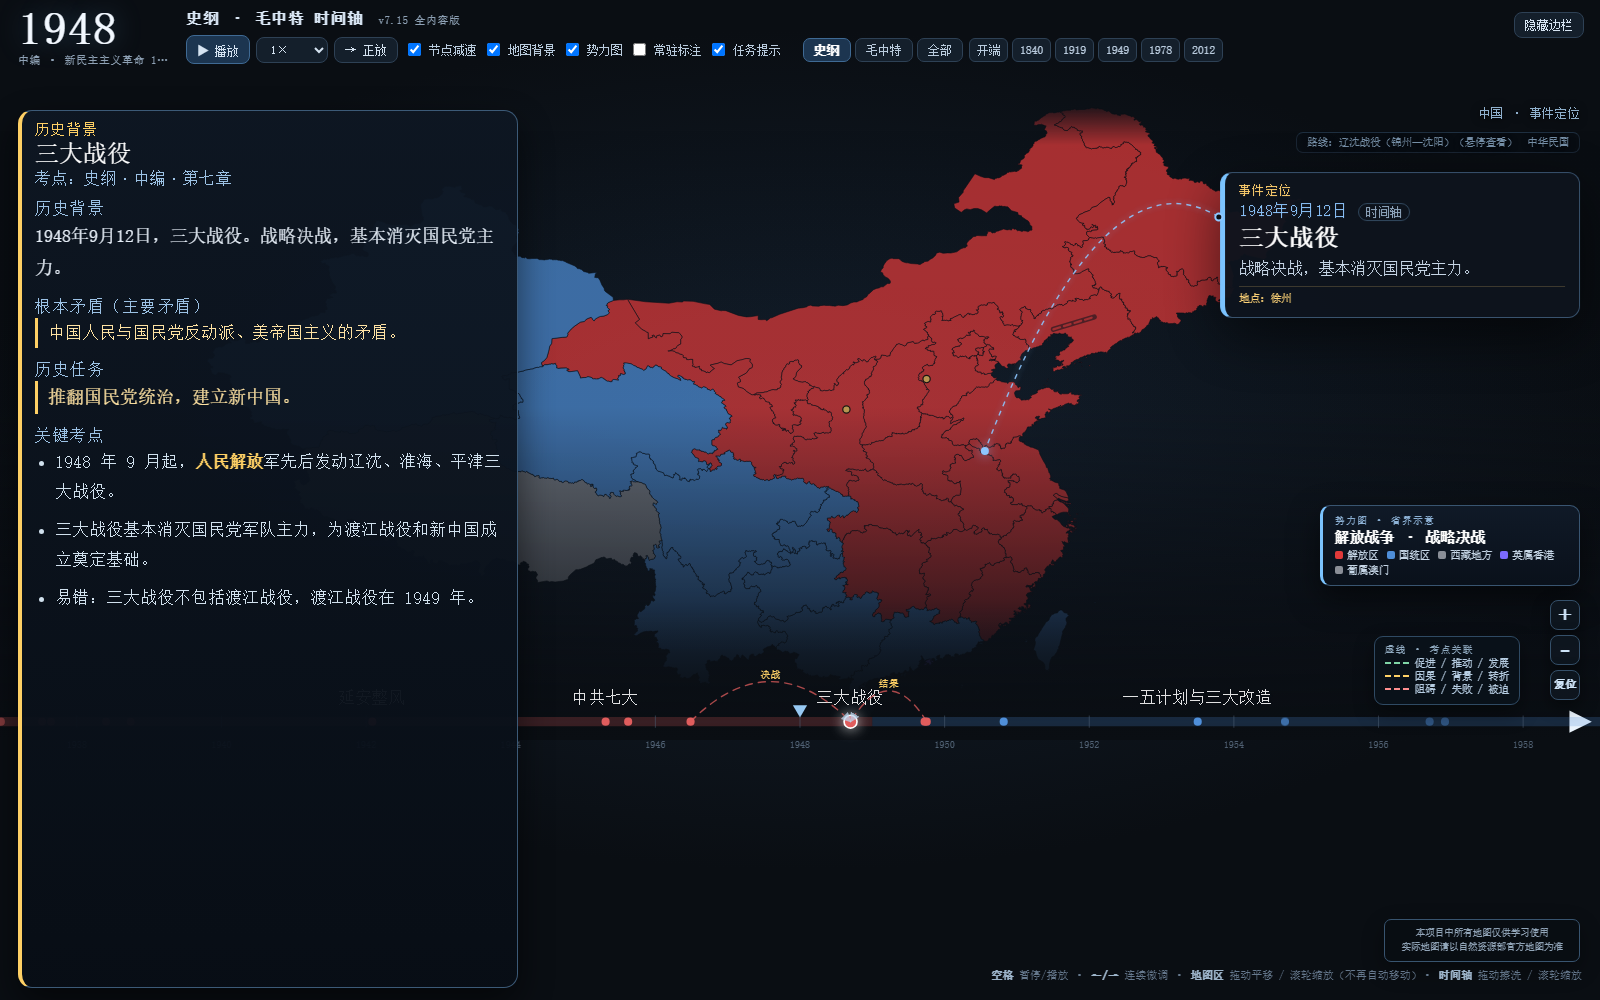
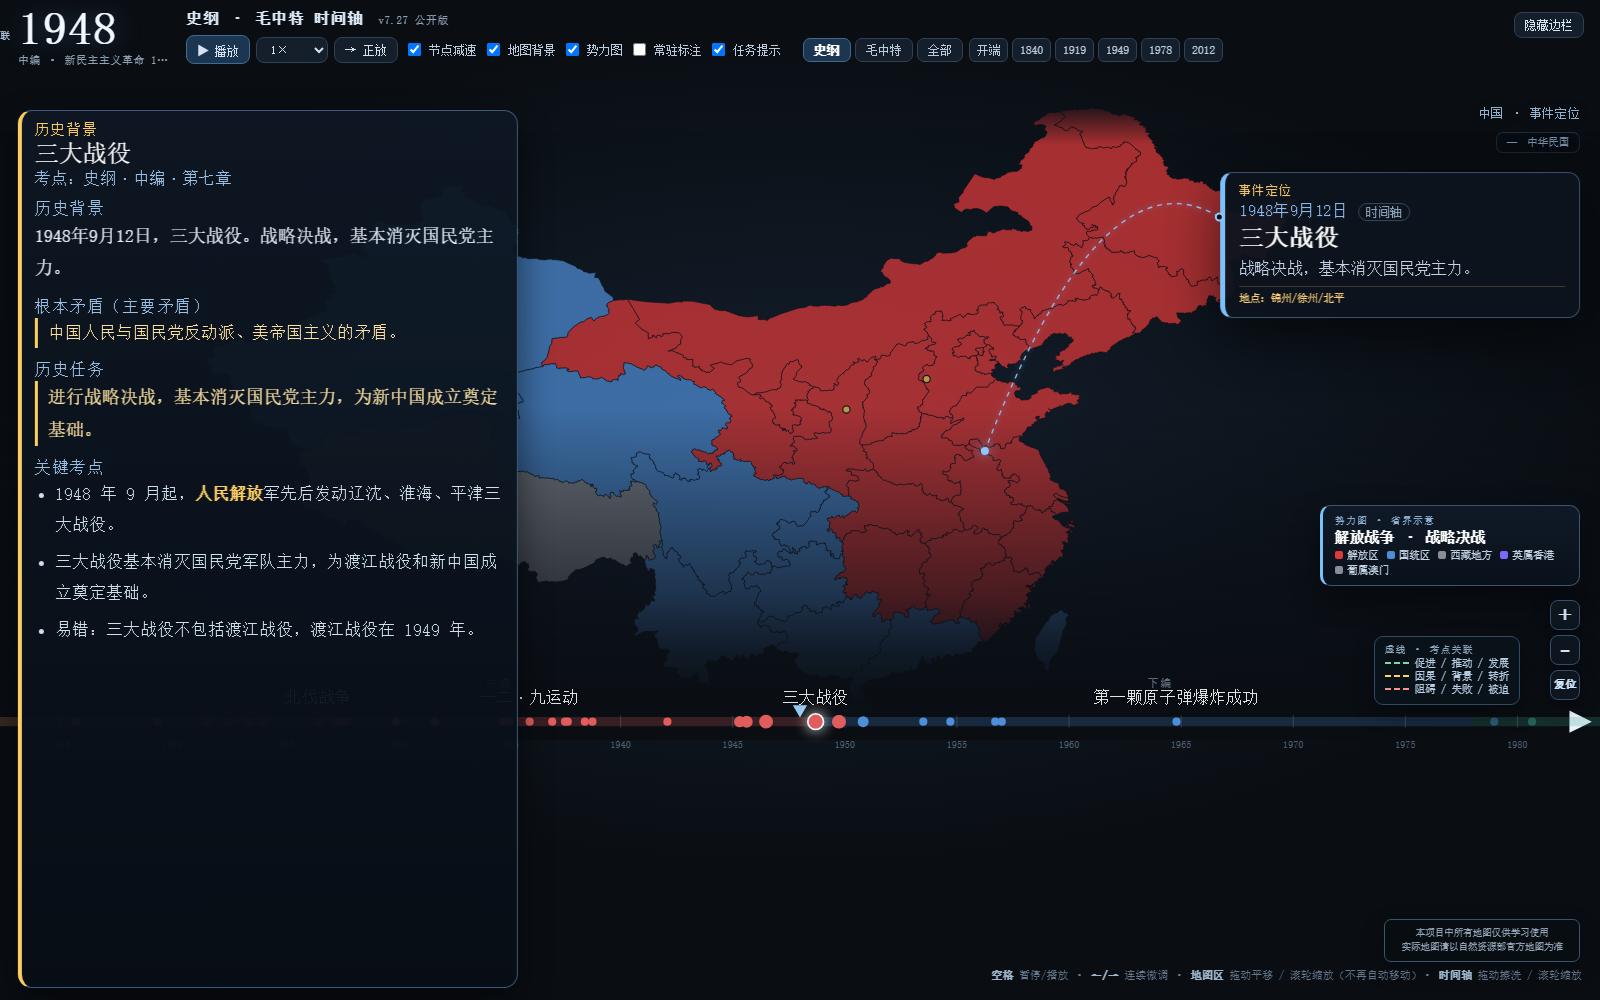
Prepare Bilibili public release v7.27

diff --git a/index.html b/index.html
@@ -3,7 +3,7 @@
 <head>
 <meta charset="utf-8">
 <meta name="viewport" content="width=device-width, initial-scale=1">
-<title>史纲 · 毛中特 时间轴（v7.15 全内容版）</title>
+<title>史纲 · 毛中特 时间轴（v7.27 公开版）</title>
 <style>
   :root{ --bg1:#0a0e13; --bg2:#101823; --text:#e9f0f8; --muted:#8fa2b6; --line:#22303f; --accent:#7cc4ff; }
   *{box-sizing:border-box}
@@ -495,7 +495,7 @@
 <svg id="svg" xmlns="http://www.w3.org/2000/svg"></svg>
 
 <div id="topLeft">
-  <div id="title">史纲 · 毛中特 时间轴 <small>v7.15 全内容版</small></div>
+  <div id="title">史纲 · 毛中特 时间轴 <small>v7.27 公开版</small></div>
   <button id="topToggle">隐藏边栏</button>
   <div id="controls">
     <button id="playBtn" class="pri">▶ 播放</button>

diff --git a/README.md b/README.md
@@ -5,6 +5,23 @@
 > 这是一个离线单文件夹 HTML 工具，不是官方产品，不是教材替代品。  
 > 考点内容为 AI 辅助二次整理，使用前请以 2027 考研政治大纲和最新版教材为准。
 
+## 在线使用
+
+**手机/电脑直接打开，不需要下载安装：**
+
+https://akanewton.github.io/shigang-maozhong-timeline/
+
+- 手机横屏体验更好；
+- 手机左下角“考点”打开历史任务抽屉；
+- 电脑端直接打开同一地址即可。
+
+## 下载离线版
+
+https://github.com/akanewton/shigang-maozhong-timeline/releases/latest
+
+下载后解压，用浏览器打开 `index.html`。  
+GitHub 打不开时，可以使用发布评论里提供的国内网盘备份。
+
 ![界面预览](docs/preview.png)
 
 ## 功能
